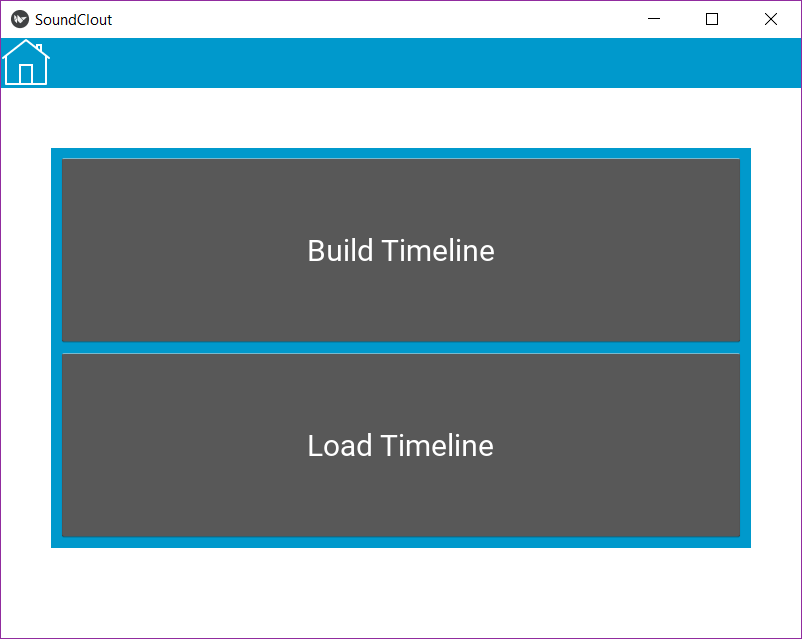
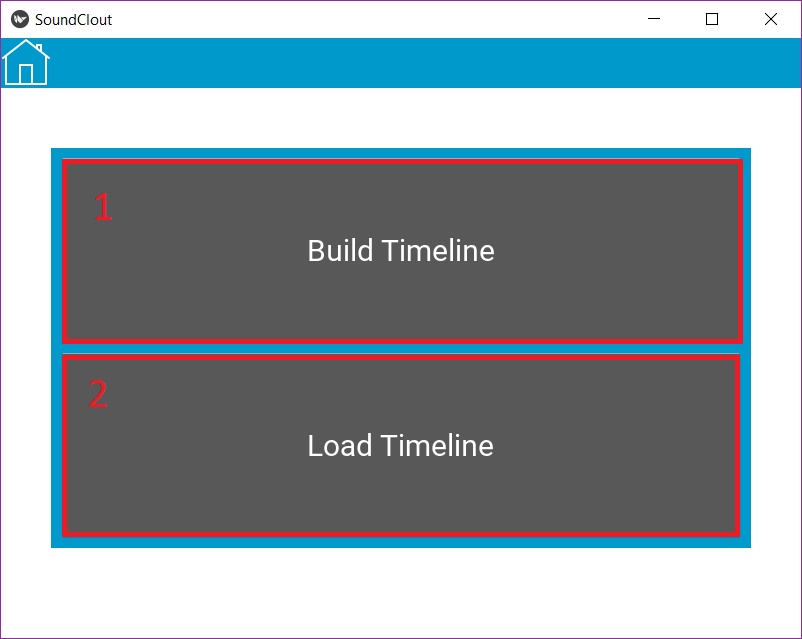
checking changes2

Changed region(s): [[0.0623, 0.2379, 0.9352, 0.8623], [0.1247, 0.2973, 0.1559, 0.3568]]

diff --git a/index.html b/index.html
@@ -1,20 +1,58 @@
+<!DOCTYPE html>
+<html>
+<head>
+<style>
+img {
+    width:50%;
+}
+</style>
+</head>
+
+<body>
 <h1>SoundClout Application User Guide</h1>
 <br>
 <p style="font-family:courier;">The Soundclout app is an application intended to control and distribute a series of instructions to raspberry pi devices for use in a sound art installation. Even though the intended use of the app is for an art installation, it can still serve as a generalized raspberry pi controller.</p>
 <p style="font-family:courier;">The raspberry pis need to be configured with specific code we have developed in order to properly recieve and execute instructions from the soundclout app. A guide for setting up the RPi devices can be found <a href="https://github.com/SCCapstone/SoundClout/wiki/Raspberry-Pi-MotorSlider-circuit-diagram">here</a>.</p>
+<p>Home Screen:</p>
 <br>
 <img src="./images/home.png" alt="Homescreen">
 <br>
 
 <p style="font-family:courier;">To get started you must connect to the raspberry pis you intend on using. Go to the "Connect Devices" Page.</p>
+<p>Connected Devices page:</p>
 <img src="./images/connectdev.png" alt="Connected Devices">
-<p style="font-family:courier;"> First make sure your computer's bluetooth is ON. Hit scan<em>(1)</em> and the app will search the list of bluetooth enabled devices in the area for the configured raspberry pis. The list of devices that show up in the list under scan<em>(2)</em> will only be the pis that are configured for the app- so any other devices in the area won't be available to make a connection. Click on the device name in the list to add it to your list of connected devices<em>(3)</em>. If you wish to disconnect from a device simply click on the name in the connected devices area<em>(3)</em>. If you want to disconnect from all devices, hit the button<em>(4)</em>. Click the home icon in the top left corner to return to the main screen.</p>
+<p style="font-family:courier;"> First make sure your computer's bluetooth is ON. Hit scan<em color="#ff0000">(1)</em> and the app will search the list of bluetooth enabled devices in the area for the configured raspberry pis. The list of devices that show up in the list under scan<em color="#ff0000">(2)</em> will only be the pis that are configured for the app- so any other devices in the area won't be available to make a connection. Click on the device name in the list to add it to your list of connected devices<em color="#ff0000">(3)</em>. If you wish to disconnect from a device simply click on the name in the connected devices area<em color="#ff0000">(3)</em>. If you want to disconnect from all devices, hit the button<em color="#ff0000">(4)</em>. Click the home icon in the top left corner to return to the main screen.</p>
 <br>
 
 <p style="font-family:courier;">To test the raspberry pis you are connected to, navigate to the "Device Tester" screen.</p>
+<p>Device Tester Screen:</p>
 <img src="./images/testdev.png" alt="Test Devices">
-<p style="font-family:courier;">There will be a list of the devices you are connected to<em>(1)</em> and then you can toggle the switches<em>(2)</em> next to the name to "ON" and hit the test button<em>(3)</em> to start running the components connected to the Pi(s).</p>
+<p style="font-family:courier;">There will be a list of the devices you are connected to<em color="#ff0000">(1)</em> and then you can toggle the switches<em>(2)</em> next to the name to "ON" and hit the test button<em color="#ff0000">(3)</em> to start running the components connected to the Pi(s).</p>
 <p style="font-family:courier;">Once you are satisfied everything is working as intended you can start grouping together your devices</p>
 <br>
 
 <p style="font-family:courier;">Go to the "Edit Device Groups page" to begin adding devices.</p>
+<p>Edit Device Groups Page:</p>
+<img src="./images/editdevgroup.png" alt="Edit Device Groups">
+<p style="font-family:courier;">Select Create Group<em color="#ff0000">(1)</em> to create a new group. Groups are collections of devices that all receive the same instructions from the application. Alternatively you can Load Groups<em color="#ff0000">(2)</em> to load a configuration you have previously saved.</p>
+<p>New Group Screen:</p>
+<img src="./images/newgroup.png" alt="New Device Groups">
+<p style="font-family:courier;">Where it says "New Group"<em color="#ff0000">(1)</em> you can name the group whatever you'd like and then hit ok<em color="#ff0000">(2)</em> when you're satisfied.</p>
+<p>You'll see this after you hit ok:</p>
+<img src="./images/group settings.png" alt="Group Settings">
+<p style="font-family:courier;">Now you can see your group settings and the devices that you're connected to<em color="#ff0000">(1)</em> in this page. Hit the switch<em color="#ff0000">(2)</em> to choose which devices are active inside of this group. Hit back<em color="#ff0000">(3)</em> to go back to the edit device groups screen - or hit remove<em color="#ff0000">(4)</em> to delete this group.</p>
+<p>Now the Edit Device Groups page looks like this:</p>
+<img src="./images/editdevgroup2.png" alt="Edit Device Groups2">
+<p style="font-family:courier;">You can now see the groups you have made in the edit device groups screen. You can click save<em color="#ff0000">(1)</em> to save your current group configurations if you want to.</p>
+<p style="font-family:courier;">Now we can return to the main screen.</p>
+<br>
+
+<p style="font-family:courier;">Navigate to the "Edit Group Behavior" screen to start building a timeline. A timeline is a group of time slots that tell each device group how to behave during that slot of time. When the app is running the time slots are executed in order.</p>
+<p>Edit Group Behavior Screen:</p>
+<img src="./images/edit group behavior.png" alt="Edit Group Behavior">
+<p style="font-family:courier;">Hit build timeline<em color="#ff0000">(1)</em> to create a new one or load timeline<em color="#ff0000">(2)</em> to load a timeline configuration you've already made</p>
+
+
+
+</body>
+</html>
